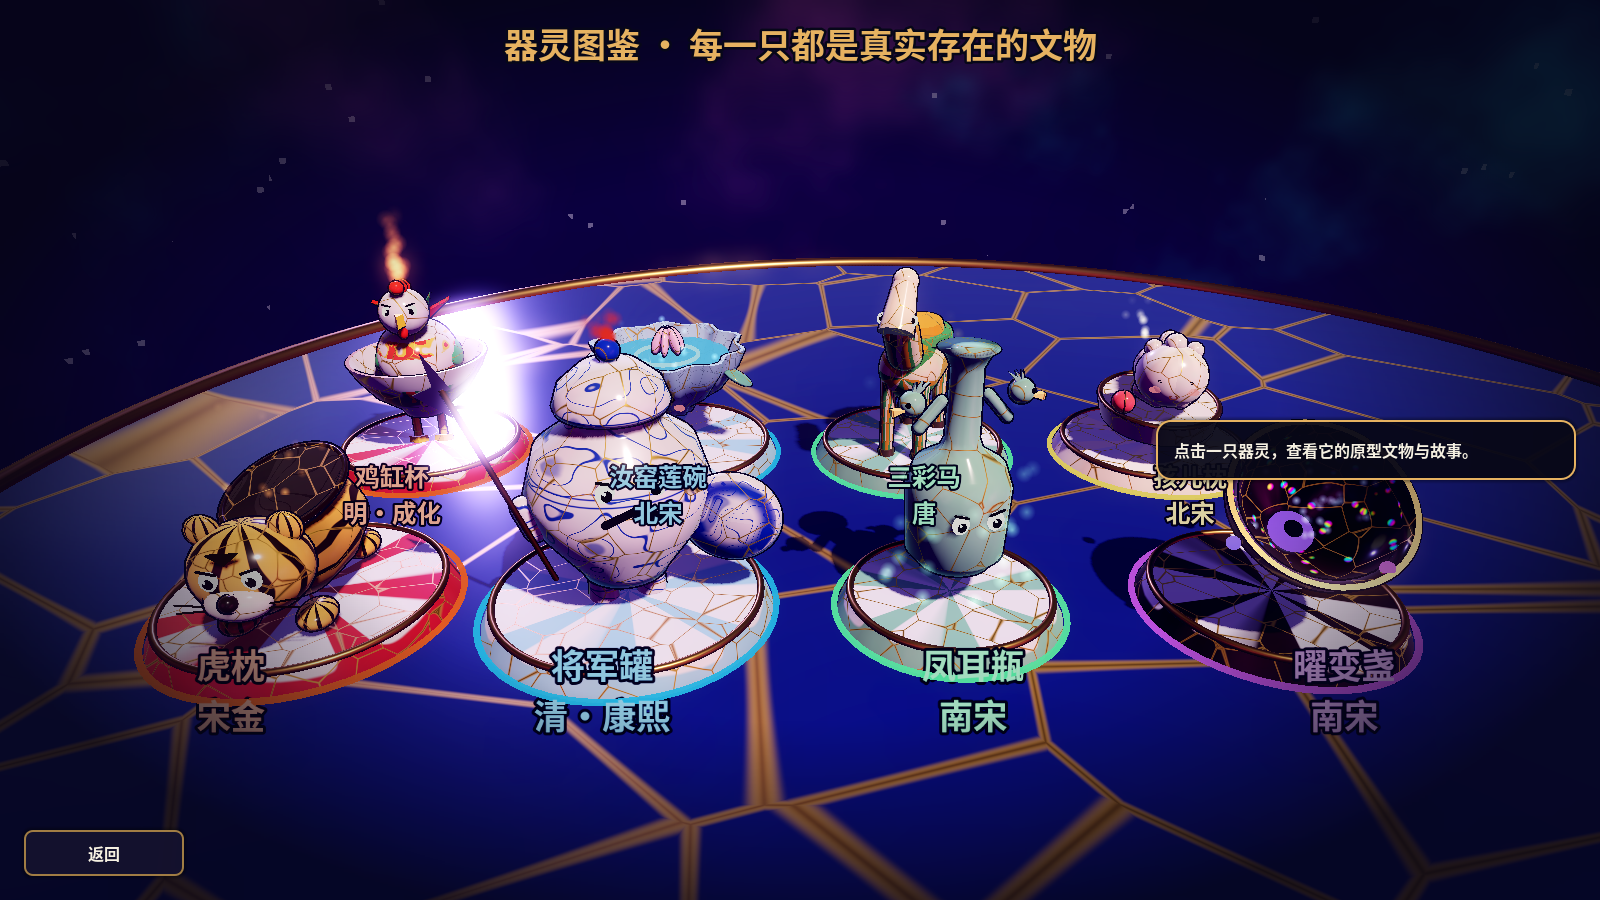
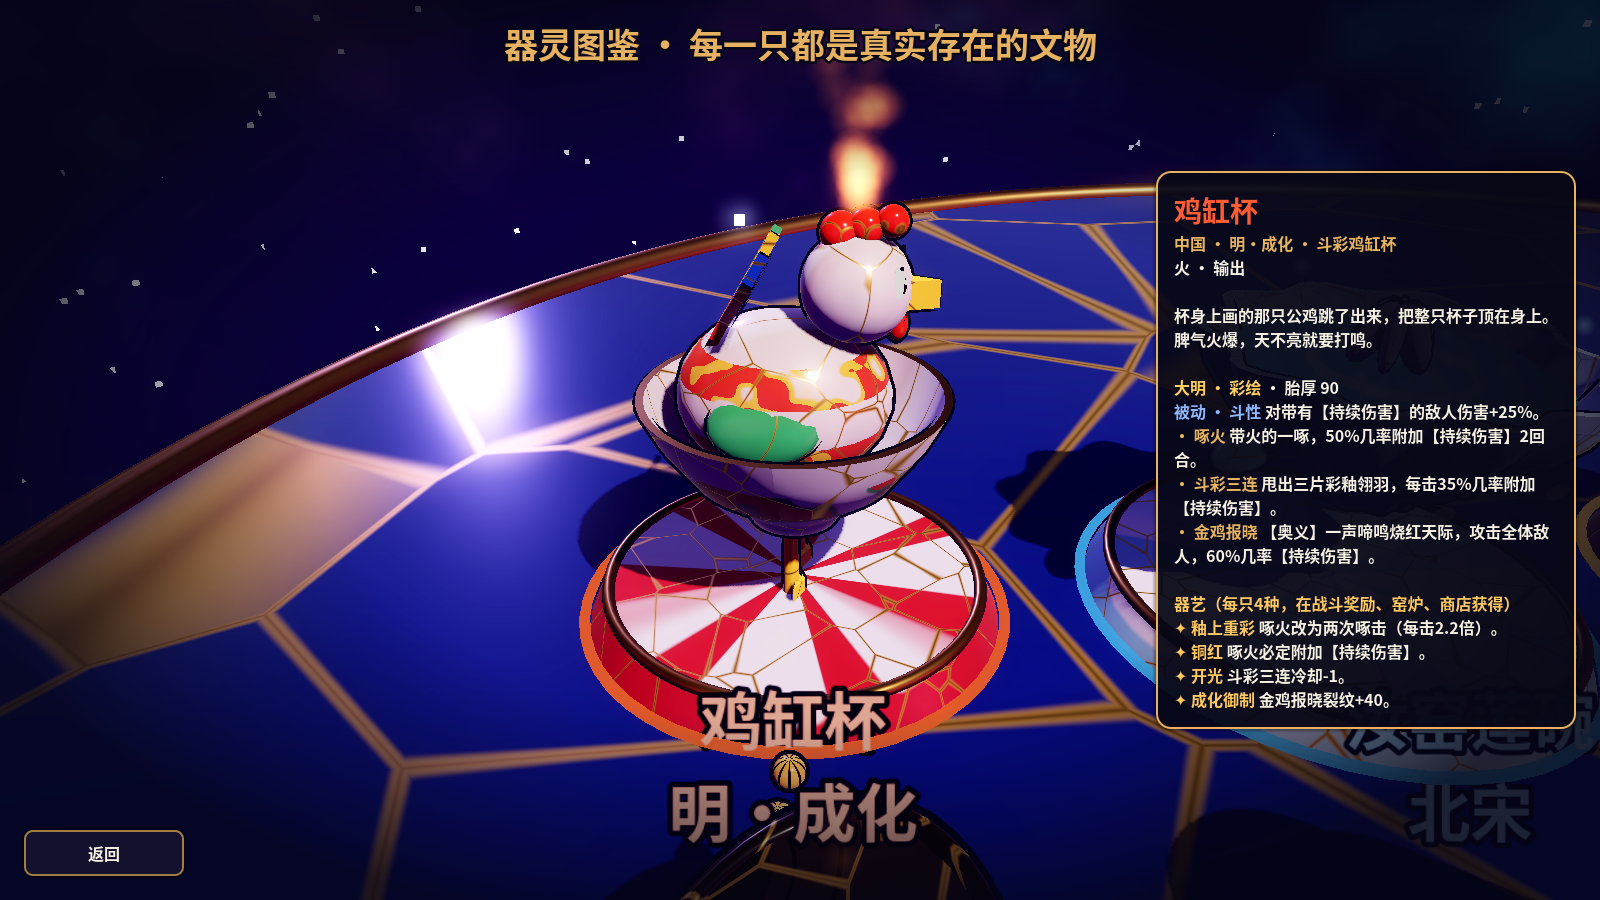
Balance pass from simulation; rules page, boss demo, screenshots
- Break knocks ATB back 35% instead of emptying it (fixed turn starvation)
- Stronger boss (4 enemies, HP x4.5, toughness 420), elites field 4 from floor 4
- Less healing, +10% damage, softer first floors, 30% post-win heal
- Rules page lists every overcoming/generating pair; trace and boss demo flags

Claude-Session: https://claude.ai/code/session_013CHDvVtDkAtPABTnwLZbTP

diff --git a/README.md b/README.md
@@ -10,8 +10,10 @@ A playable **one-run vertical slice** (~15–20 min) of a roguelite monster-coll
 | 青花瓷盘地图 · Plate map | 金缮修补 · Gold mending |
 |---|---|
 | ![map](docs/map_zh.png) | ![mend](docs/mend_zh.png) |
-| **战斗 · Battle** | **釉片奖励 · Glaze shards** |
+| **首领战：意图、裂纹、相生 · Boss: intents, crack, chains** | **奖励：器艺或釉片 · Reward: upgrade or shard** |
 | ![battle](docs/battle_en.png) | ![reward](docs/reward_en.png) |
+| **规则页：五行 · 崩裂 · 相生 · Rules page** | **器灵图鉴：羁绊与器艺 · Codex: traits & upgrades** |
+| ![rules](docs/rules_zh.png) | ![codex](docs/codex_zh.png) |
 
 ## 运行 · Run
 
@@ -30,16 +32,19 @@ A playable **one-run vertical slice** (~15–20 min) of a roguelite monster-coll
 每一只角色都是**真实存在的传世名瓷**化成的漫画形象；数据里记录了原型的国家、年代和器物名（`origin` 字段），以后可以扩展到代尔夫特、迈森、伊万里、伊兹尼克等其他国家的瓷器。器身用"旋转成型"（像拉坯一样）生成，釉面按真实工艺着色。
 *Every character is a **real, museum-famous porcelain piece** drawn as a cartoon. Each carries an `origin` (country, era, piece), so the roster can grow to Delft, Meissen, Imari, Iznik and beyond. Bodies are lathe-turned like thrown pottery; glazes follow the real techniques.*
 
-| 器灵 Spirit | 原型文物 Real piece | 元素 | 定位 Role | 釉面 Glaze |
-|---|---|---|---|---|
-| 鸡缸杯 Chicken Cup | 明·成化斗彩鸡缸杯 · Ming Chenghua doucai cup | 火 Fire | 输出 Striker | 斗彩 doucai enamels |
-| 虎枕 Tiger Pillow | 宋金·磁州窑虎形枕 · Cizhou tiger pillow | 火 Fire | 斗士 Bruiser | 白地黑花 + 虎纹 |
-| 汝窑莲碗 Ru Lotus Bowl | 北宋·汝窑天青釉莲花式温碗 · Ru ware lotus bowl | 水 Water | 辅助 Support | 天青 + 冰裂纹 crackle |
-| 将军罐 General Jar | 清·康熙青花将军罐 · Kangxi blue-and-white jar | 水 Water | 坦克 Tank | 青花 blue-and-white |
-| 三彩马 Sancai Steed | 唐·三彩马 · Tang sancai horse | 风 Wind | 控速 Tempo | 三彩流釉 running glaze |
-| 凤耳瓶 Phoenix Vase | 南宋·龙泉窑青釉凤耳瓶 · Longquan celadon vase | 风 Wind | 刺客 Assassin | 梅子青 celadon |
-| 孩儿枕 Child Pillow | 北宋·定窑白釉孩儿枕 · Ding ware child pillow | 光 Light | 治疗 Healer | 象牙白 ivory |
-| 曜变盏 Yohen Bowl | 南宋·建窑曜变天目盏 · Jian "yohen" tea bowl | 暗 Dark | 法师 Caster | 曜变星斑 + 兔毫 |
+| 器灵 Spirit | 原型文物 Real piece | 五行 | 胎厚 Tough | 羁绊 Traits | 定位 Role |
+|---|---|---|---|---|---|
+| 鸡缸杯 Chicken Cup | 明·成化斗彩鸡缸杯 · Ming Chenghua doucai cup | 火 Fire | 90 | 大明 · 彩绘 | 输出 Striker |
+| 虎枕 Tiger Pillow | 宋金·磁州窑虎形枕 · Cizhou tiger pillow | 火 Fire | 120 | 宋韵 · 彩绘 | 斗士 Bruiser |
+| 汝窑莲碗 Ru Lotus Bowl | 北宋·汝窑天青釉莲花式温碗 · Ru ware lotus bowl | 水 Water | 100 | 宋韵 · 单色釉 | 辅助 Support |
+| 将军罐 General Jar | 清·康熙青花将军罐 · Kangxi blue-and-white jar | 水 Water | 150 | 康乾 · 彩绘 | 坦克 Tank |
+| 三彩马 Sancai Steed | 唐·三彩马 · Tang sancai horse | 土 Earth | 95 | 盛唐 · 彩绘 | 控速 Tempo |
+| 凤耳瓶 Phoenix Vase | 南宋·龙泉窑青釉凤耳瓶 · Longquan celadon vase | 木 Wood | 80 | 宋韵 · 单色釉 | 刺客 Assassin |
+| 孩儿枕 Child Pillow | 北宋·定窑白釉孩儿枕 · Ding ware child pillow | 金 Metal | 100 | 宋韵 · 单色釉 | 治疗 Healer |
+| 曜变盏 Yohen Bowl | 南宋·建窑曜变天目盏 · Jian "yohen" tea bowl | 金 Metal | 90 | 宋韵 · 单色釉 | 法师 Caster |
+
+每只器灵有 **4 个器艺**（强化），名字都是它身上的真实工艺：鸡缸杯的「开光」「铜红」、汝窑的「蟹爪纹」「满釉支烧」、凤耳瓶的「薄胎」「粉青」……
+*Each spirit has **4 craft techniques** (upgrades) named after real techniques on that piece.*
 
 每只器灵都有**专属招牌动作**（`po_anims.gd`）：鸡缸杯跳过去连啄三下，将军罐掀起罐盖飞到敌人头顶砸下，凤耳瓶的两只凤耳离开瓶身俯冲，孩儿枕把绣球抛出去再弹回来，虎枕伏低蓄力后飞扑，三彩马扬蹄踏地，汝窑莲碗前倾泼水，曜变盏倾倒星屑。
 *Each spirit has **signature moves** (`po_anims.gd`): the rooster hops in and pecks, the General Jar hurls its lid onto the target, the phoenix handles detach and dive, the Child Pillow throws its ball, the tiger crouches and pounces, and more.*
@@ -60,21 +65,26 @@ Title → choose a starting trio → travel 8 floors across the **porcelain plat
 
 | 节点 Node | 内容 Content |
 |---|---|
-| 战 Battle / 精 Elite | 4v4 以内的攻击条战斗；胜利得金子，并从 3 块釉片中选 1。*ATB battles; win gold and pick 1 of 3 glaze shards* |
-| 窑 Kiln | 招募新瓷偶（最多 4 只）。*Recruit a new figure (team of up to 4)* |
+| 战 Battle / 精 Elite | 4v4 以内的攻击条战斗；胜利得金子，并从器艺和釉片中 3 选 1。*ATB battles; win gold and pick 1 of 3 craft upgrades / glaze shards* |
+| 窑 Kiln | 招募新器灵（最多 4 只），或"回炉"学一个器艺。*Recruit (team of up to 4) or refire a spirit for an upgrade* |
 | 缮 Mending Hall | 金缮修补碎裂的瓷偶，或全队休整。*Mend shattered figures or rest* |
-| 市 Shop | 购买釉片、修复釉浆。*Buy glaze shards, repair slip* |
+| 市 Shop | 购买釉片、器艺、修复釉浆。*Buy glaze shards, an upgrade, repair slip* |
 | 奇 Encounter | 3 个带选择的事件。*3 choice events* |
 | 王 Boss | 无缮之王：场上有单位碎裂时它会变强。*The Unmended grows stronger whenever anything shatters* |
 
 ## 战斗 · Combat
 
 - **攻击条 ATB**：每 tick 攻击条增加 速度×7%，先满者行动；顶部显示接下来 8 个行动者。*SPD-driven Attack Bar with an 8-turn forecast.*
-- **属性克制 Elements**：火→风→水→火，光⇄暗。*Fire→Wind→Water→Fire, Light⇄Dark.*
-- **元素裂变 Element Fission**：伤害会留下元素印记，用另一种元素命中带印记的目标会触发 6 种反应：焰暴、蒸腾、冰封、湮灭、辉光、蚀裂。*Marks + 6 reactions (Firestorm, Steam, Frostbind, Annihilation, Radiance, Corrosion).*
-- **奥义 Ultimates**：靠灵力充能（行动 +25、受击 +8、击杀 +15）。*Charged by energy.*
-- **信息透明**：瞄准时显示预计伤害、能否击杀、实际命中率、将触发的裂变。*Targeting previews damage, lethal, landing chance and reactions.*
-- **15 块釉片**：改写规则，而不只是加数值，比如「双印：裂变后保留印记，可以连锁」「碎瓷锋：队友碎裂时全队拉条并强化」。*Rule-bending relics, e.g. chain reactions, rally on shatter.*
+完整规则、公式、平衡目标和模拟数据见 **[docs/DESIGN.md](docs/DESIGN.md)**。*Full rules, formulas, targets and simulation data: [docs/DESIGN.md](docs/DESIGN.md).*
+
+- **五行 Five Phases**：金木水火土，每种都是一门瓷器工艺（金缮、草木灰釉、钴料、窑火、胎土）。**相克**（金克木、木克土、土克水、水克火、火克金）伤害 +25%、裂纹 +50%。*Each element is a porcelain craft; overcoming = +25% damage, +50% crack.*
+- **裂纹与崩裂 Crack & Break**：攻击会在目标身上留下裂纹，达到**胎厚**就会**崩裂**：攻击条 -35%、**打断**它蓄力的招式、受到伤害 +30%，并按击碎者的元素触发**窑变**（金缮护盾、灰釉治疗、冷缩减速、起泡灼烧、塌陷破防）。治疗会先用金子补裂纹。*Hits build crack up to toughness; a break knocks the ATB back 35%, interrupts the telegraphed move, adds +30% damage taken and fires an element-specific kiln effect. Heals mend crack.*
+- **相生连携 Chains**：同一方上一个行动的队友的元素**生**你的元素（木生火、火生土、土生金、金生水、水生木），你就接上一段相生：伤害 +15%、裂纹 +25%、灵力 +10，最多 5 段。行动预测里金环头像就是会连上的。*If the previous ally to act feeds your element, you chain: +15% damage, +25% crack, +10 energy per link.*
+- **敌人意图 Intents**：敌人头顶显示下一步要放什么、打谁；在它行动前把它打崩裂就能打断。*Enemies telegraph their next move and target; break them first to interrupt.*
+- **羁绊 Traits**：宋韵、彩绘、单色釉、五行、盛唐/大明/康乾，来自每件文物真实的朝代和工艺。*Team traits from each piece's real dynasty and technique.*
+- **奥义 Ultimates**：靠灵力充能（行动 +25、受击 +8、击杀 +15、相生 +10）。*Charged by energy.*
+- **信息透明**：瞄准时显示预计伤害、裂纹、是否崩裂/打断、能否击杀、实际命中率。*Targeting previews damage, crack, break/interrupt, lethal and landing chance.*
+- **15 块釉片**：改写规则，比如「冷热骤变：崩裂时追加伤害」「连窑：相生额外灵力」「金粉瓶：第一个碎裂的队友当场重组」。*Rule-bending relics.*
 
 ## 美术 · Art direction
 
@@ -107,5 +117,6 @@ Title → choose a starting trio → travel 8 floors across the **porcelain plat
 
 ```bash
 godot --headless --path . -- --gm-autotest                       # AI 自动打完一整局 · AI plays a full run
+godot --headless --path . -- --gm-sim=12                         # 平衡模拟 · balance simulation table
 godot --path . -- --gm-demo=map --gm-shot=map.png --gm-lang=en   # 截图 · screenshot (title|map|battle|mend|reward|end)
 ```

diff --git a/docs/DESIGN.md b/docs/DESIGN.md
@@ -44,7 +44,7 @@ Why five instead of fire/water/wind/light/dark: the old triangle plus a pair onl
 - Every damaging skill has a `crack` value: the total crack it puts on each target, split across its hits.
 - Every figure has **toughness (胎厚)**: chicken cup 90, phoenix vase 80 (thin-bodied), General Jar 150 (thick-walled), boss 320.
 - At full crack the figure **breaks (崩裂)**:
-  1. Its Attack Bar drops to 0.
+  1. Its Attack Bar is knocked back by 35%. An earlier build reset it to 0; enemies that broke fragile spirits right before they acted then denied them almost every turn.
   2. If it is an enemy with a telegraphed skill or ultimate, the move is **interrupted** and becomes a basic attack.
   3. It takes **+30% damage** until its next turn starts. At that point its crack resets to 0.
   4. The breaker's element fires a **kiln effect (窑变)** (table above).
@@ -56,7 +56,7 @@ Crack formula per hit:
 ```
 crack = skill.crack / hits
       × (1.5 overcoming | 0.7 overcome | 1.0)
-      × (1 + 0.25 × chain × (1.5 if Monochrome))
+      × (1 + 0.25 × chain × (1.3 if Monochrome))
       × (1.2 / 1.4 with Painted 2 / 3)
 ```
 
@@ -83,7 +83,7 @@ Counted over the fielded team (up to 4). Tags come from each piece's real histor
 |---|---|---|
 | 宋韵 Song Grace | 宋代名窑 · Song-dynasty wares (汝、定、龙泉、建、磁州) | 2: toughness +25% · 4: damage taken -12% |
 | 彩绘 Painted | 釉上/釉下彩绘 · painted decoration (斗彩、青花、三彩、白地黑花) | 2: crack +20% · 3: crack +40%, breaking gives 20 energy |
-| 单色釉 Monochrome | 一色釉 · single-colour glazes (汝、定、龙泉、建) | 2: chain bonus ×1.5 · 3: each link also heals 6% |
+| 单色釉 Monochrome | 一色釉 · single-colour glazes (汝、定、龙泉、建) | 2: chain bonus ×1.3 · 3: each link also heals 6% |
 | 五行 Five Phases | 队伍里不同元素数 · distinct elements | 3: start with 15% ATB · 4: start with 30% ATB |
 | 盛唐 / 大明 / 康乾 Tang / Ming / Qing | 朝代 · dynasty | 2: SPD +8 / crit +12% / HP +12% |
 
